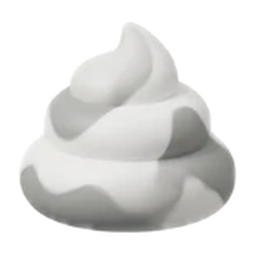
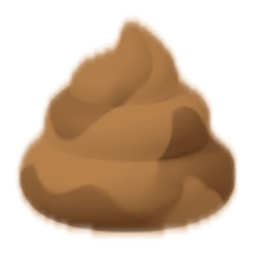
게임 3차: 테두리 잔상 수정, 바람 3스테이지부터·4스테이지부터 돌풍, 초반 난이도 상향, 똥 색 갈색
- 배경이 창 너비보다 좁게 그려져 양옆 띠에 잎·스프라이트 잔상이 쌓이던 문제: cover 방식으로 꽉 채우고 매 프레임 지움
- 바람: 3스테이지부터 한 방향 10초씩, 4스테이지부터 3~5초마다 세기·방향이 부드럽게 바뀌고 가끔 돌풍. 화살표 개수로 세기 표시
- 1~3스테이지 위험물 비율·속도·빈도 상향
- 새똥 스프라이트를 코드로 갈색 톤으로 재채색

diff --git a/app/game/game.js b/app/game/game.js
@@ -88,7 +88,7 @@ const S = {
   objs: [], bird: { x: -60, dir: 1, y: 110, flap: 0, nextPoop: 2 },
   spawnAt: 0, itemAt: 8, wind: 0, windAt: 0,
   fx: { lightning: 0, golden_ear: 0, magnet: 0, turtle: 0, shield: 0 },
-  particles: [], toasts: [], caught: 0, dodged: 0, leaves: [], windT: 0, happyUntil: 0,
+  particles: [], toasts: [], caught: 0, dodged: 0, leaves: [], windT: 0, happyUntil: 0, windTarget: 0,
   keys: {}, best: 0, coins: 0, cap: 3,
 };
 
@@ -113,7 +113,7 @@ async function startGame() {
   if (!r.ok) { refreshIntro(); return; }
   S.coins = r.coins;
   Object.assign(S, { t: 0, stage: 1, score: 0, hearts: MAX_HEARTS, hurtUntil: 0, objs: [], particles: [], toasts: [],
-    spawnAt: 1, itemAt: 8, wind: 0, windAt: 0, caught: 0, dodged: 0, paused: false, leaves: [], windT: 0, happyUntil: 0,
+    spawnAt: 1, itemAt: 8, wind: 0, windAt: 0, windTarget: 0, caught: 0, dodged: 0, paused: false, leaves: [], windT: 0, happyUntil: 0,
     fx: { lightning: 0, golden_ear: 0, magnet: 0, turtle: 0, shield: 0 } });
   S.player.x = W / 2; S.bird = { x: -60, dir: 1, y: 110, flap: 0, nextPoop: 2 };
   S.screen = 'play'; show(''); sfx.stage(); bgm.play();
@@ -158,12 +158,12 @@ function spawn() {
   const pool = [];
   for (const [k, v] of Object.entries(FRUITS)) if (st >= v.stage) pool.push({ kind: 'fruit', name: k, w: 3 });
   // 초반엔 과일이 많고, 스테이지가 오를수록 위험물 비중이 늘어남
-  for (const [k, v] of Object.entries(HAZARDS)) if (st >= v.stage) pool.push({ kind: 'hazard', name: k, w: (k === 'poop' ? 1.9 : 1.4) + st * 0.25 });
+  for (const [k, v] of Object.entries(HAZARDS)) if (st >= v.stage) pool.push({ kind: 'hazard', name: k, w: (k === 'poop' ? 2.4 : 1.6) + st * 0.25 });
   const total = pool.reduce((s, p) => s + p.w, 0);
   let r = Math.random() * total, pick = pool[0];
   for (const p of pool) { r -= p.w; if (r <= 0) { pick = p; break; } }
   const def = pick.kind === 'fruit' ? FRUITS[pick.name] : HAZARDS[pick.name];
-  const base = 190 + st * 38;
+  const base = 215 + st * 38;
   S.objs.push({ kind: pick.kind, name: pick.name, size: def.size, x: rnd(40, W - 40), y: -50,
     vy: base * (def.speed || 1) * rnd(0.9, 1.15), vx: 0, phase: rnd(0, 6.28), zigzag: !!def.zigzag, score: def.score || 0 });
 }
@@ -198,11 +198,19 @@ function update(dt) {
   S.t += dt;
   // 스테이지
   const stage = Math.min(12, Math.floor(S.t / STAGE_SEC) + 1);
-  if (stage !== S.stage) { S.stage = stage; S.score += 100; sfx.stage(); toast(`STAGE ${stage}`, '#fff'); if (stage === 5) toast('바람이 불어요 🌬', '#fff'); }
+  if (stage !== S.stage) { S.stage = stage; S.score += 100; sfx.stage(); toast(`STAGE ${stage}`, '#fff'); if (stage === 3) toast('바람이 불어요 🌬', '#fff'); if (stage === 4) toast('돌풍 주의! 🌪', '#fff'); }
   if (S.t >= LIMIT) { endGame(true); return; }
   // 바람 (5스테이지부터, 8초마다 방향 바뀜)
-  if (S.stage >= 5 && S.t > S.windAt) { S.wind = (Math.random() < 0.5 ? -1 : 1) * rnd(50, 110); S.windAt = S.t + 8; S.leaves = []; }
-  else if (S.stage < 5) S.wind = 0;
+  if (S.stage >= 3 && S.t > S.windAt) {
+    // 3스테이지: 한 방향으로 10초씩 / 4스테이지부터: 3~5초마다 새 목표, 돌풍처럼 세기·방향이 계속 바뀜
+    const strength = 40 + S.stage * 14;
+    S.windTarget = (Math.random() < 0.5 ? -1 : 1) * rnd(strength * 0.5, strength);
+    if (S.stage >= 4 && Math.random() < 0.25) S.windTarget *= 1.6;        // 가끔 돌풍
+    S.windAt = S.t + (S.stage >= 4 ? rnd(3, 5) : 10);
+  }
+  if (S.stage < 3) { S.wind = 0; S.windTarget = 0; }
+  S.wind += (S.windTarget - S.wind) * Math.min(1, dt * (S.stage >= 4 ? 1.5 : 4));   // 부드럽게 변함
+  if (Math.abs(S.windTarget) < 8 && Math.abs(S.wind) < 8) S.wind = 0;   // 목표가 0일 때만 완전히 멈춤
   if (S.wind) { S.windT += dt; if (Math.random() < dt * 6) S.leaves.push({ x: S.wind > 0 ? -20 : W + 20, y: rnd(60, H - 120), vy: rnd(20, 60), ph: rnd(0, 6.28), age: 0 }); }
   for (const l of S.leaves) { l.age += dt; l.x += S.wind * 2.2 * dt; l.y += l.vy * dt + Math.sin(l.ph += dt * 5) * 0.8; }
   S.leaves = S.leaves.filter(l => l.age < 6 && l.x > -40 && l.x < W + 40 && l.y < H);
@@ -226,7 +234,7 @@ function update(dt) {
 
   // 스폰
   S.spawnAt -= dt * slow;
-  if (S.spawnAt <= 0) { spawn(); S.spawnAt = Math.max(0.3, 1.0 - S.stage * 0.075) * rnd(0.8, 1.2); }
+  if (S.spawnAt <= 0) { spawn(); S.spawnAt = Math.max(0.3, 0.85 - S.stage * 0.065) * rnd(0.8, 1.2); }
   S.itemAt -= dt;
   if (S.itemAt <= 0) { spawnItem(); S.itemAt = rnd(11, 17); }
 
@@ -282,14 +290,18 @@ function drawWind() {
   }
   for (const l of S.leaves) { ctx.save(); ctx.translate(l.x, l.y); ctx.rotate(l.ph); ctx.fillStyle = '#7ac142'; ctx.beginPath(); ctx.ellipse(0, 0, 9, 5, 0, 0, 6.28); ctx.fill(); ctx.restore(); }
   ctx.restore();
-  text(dir > 0 ? '바람 →' : '← 바람', W / 2, 54, { size: 15, align: 'center', color: '#e8f6ff' });
+  const arrows = (dir > 0 ? '→' : '←').repeat(Math.min(3, Math.ceil(speed / 50)));
+  text(dir > 0 ? `바람 ${arrows}` : `${arrows} 바람`, W / 2, 54, { size: 15, align: 'center', color: '#e8f6ff' });
 }
 
 function draw() {
   // 배경 (9:16 이미지를 높이에 맞춰 가운데 잘라 그림)
+  ctx.clearRect(0, 0, W, H);
   const bg = IMG.bg;
-  if (bg.complete && bg.naturalWidth) { const s = H / bg.naturalHeight, w = bg.naturalWidth * s; ctx.drawImage(bg, (W - w) / 2, 0, w, H); }
-  else { ctx.fillStyle = '#9fd9ff'; ctx.fillRect(0, 0, W, H); }
+  if (bg.complete && bg.naturalWidth) {
+    const s = Math.max(W / bg.naturalWidth, H / bg.naturalHeight), w = bg.naturalWidth * s, h = bg.naturalHeight * s;
+    ctx.drawImage(bg, (W - w) / 2, (H - h) / 2, w, h);
+  } else { ctx.fillStyle = '#9fd9ff'; ctx.fillRect(0, 0, W, H); }
   if (S.screen === 'intro') return;
 
   // 새
